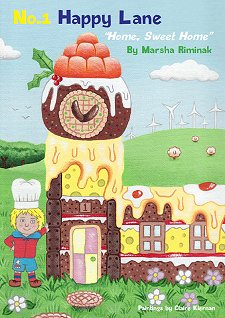
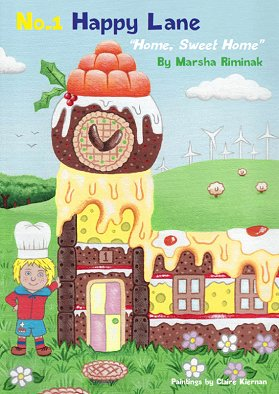
Add book PDF preview covers

diff --git a/liberte-web/web/css/b_layout.css b/liberte-web/web/css/b_layout.css
@@ -198,10 +198,6 @@ section {
     position: absolute;
     width: 1px
 }
-.media-play video, .media-play embed {
-    margin-bottom: 1.75rem;
-    width: 240px
-}
 .page-books section li {
     margin-bottom: 1.5rem;
     padding-right: 50px;
@@ -214,6 +210,12 @@ section {
 }
 .page-home main, .page-home-sub main {
     min-height: 48.25rem
+}
+.page-interior-design .list-standard {
+    display: flex;
+    flex-wrap: wrap;
+    justify-content: space-between;
+    width: 60%
 }
 .page-music .deliverable {
     margin: 0.5em 0;
@@ -264,9 +266,6 @@ section {
     .gallery {
         width: auto
     }
-    .media-play video, .media-play embed {
-        width: 420px
-    }
     .page-paintings .description, .page-interior-design .description {
         float: left;
         margin-right: 4%;
@@ -304,7 +303,7 @@ section {
 
 	/* class elements: =. */
     .media-play video, .media-play embed {
-        width: 720px
+        /*width: 720px*/
     }
     .page-home .introduction {
         border-radius: 12em 0;
@@ -385,9 +384,6 @@ section {
         padding: 5.25rem 12px 0;
         width: 38%
     }
-    .js .detail h2 {
-        /*display: block;*/
-    }
     .js .detail > div {
         position: relative
     }
@@ -399,6 +395,17 @@ section {
         display: block;
         margin: 0 auto 2.25rem;
         width: 100%;
+    }
+    .js .media-play .fancybox-pdf {
+        border: 4px solid;
+        display: block;
+        margin: 0 auto;
+        padding: 0;
+        width: 74.5%;
+    }
+    .js .media-play .fancybox-pdf img {
+        display: block;
+        width: 100%
     }
     .js .page-books .container-lozenge.image {
         height: 20rem;
@@ -466,13 +473,19 @@ section {
         justify-content: space-between;
         width: 100%
     }
+    .js .section-data .info-section .list-standard li {
+        width: 48%
+    }
     .js .section-data.col-2 li {
         width: 48%
+    }
+    .js .section-data.col-2 li li {
+        width: auto
     }
     .js .section-data.col-3 li {
         width: 31.1%
     }
-    .js .section-data.col-2 li li, .js .section-data.col-3 li li {
+    .js .section-data.col-3 li li {
         width: auto
     }
     .js .section-data li > section {

diff --git a/liberte-web/web/css/c_theme.css b/liberte-web/web/css/c_theme.css
@@ -270,12 +270,23 @@ nav[role='navigation'] :link:hover, nav[role='navigation'] :visited:hover {
 	.js .detail .gallery {
 		background-color: transparent
 	}
-	
+	.js .media-play .fancybox-pdf {
+        border-radius: 0;
+		box-shadow: 0 7px 10px #333
+    }
+	.js .page-books .media-play .fancybox-pdf {
+        border-color: #d2b1d2;
+    }
+	.js .page-books .media-play .fancybox-pdf:hover, .js .page-books .media-play .fancybox-pdf:focus {
+        border-color: #9b539c;
+        transition : border 175ms linear
+    }
+
 	.js .page-books .detail {
 		background: url(../images/books/happylane1_cover.jpg) no-repeat left center / cover
 	}
 	.js .page-books .detail.active {
-		background: #fff
+		background: #fff url(../images/books/collage.png) no-repeat center bottom
 	}
 	.js .page-interior-design .detail {
 		background-image: url(../images/interior-design/default_interior.jpg), url(../images/toplights_00.jpg);

diff --git a/liberte-web/views/books/index.php b/liberte-web/views/books/index.php
@@ -48,7 +48,7 @@ endforeach;
 <?php if($model->SelectedBook != null) { ?>
     <div class="media-play">
         <h2><?php echo $model->SelectedBook->title; ?></h2>
-        
+        <p>Please download or view the book...</p>
         <a href="http://libertedexpression.co.uk/art/literature/<?php echo $model->SelectedBook->types['pdf']; ?>" class="fancybox-pdf">
             <img src="/images/books/<?php echo $model->SelectedBook->types['img']; ?>"/>
         </a>
